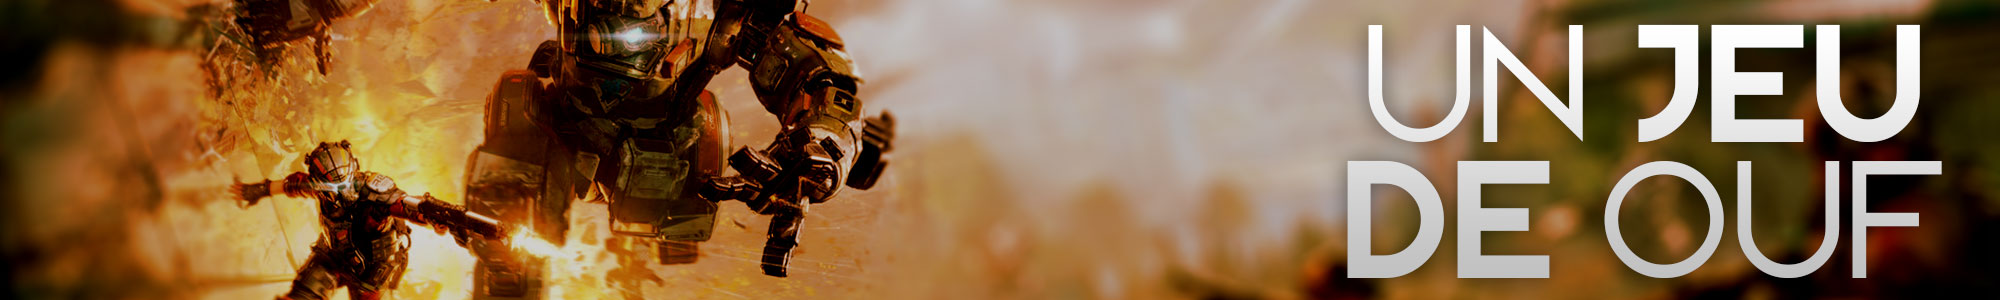
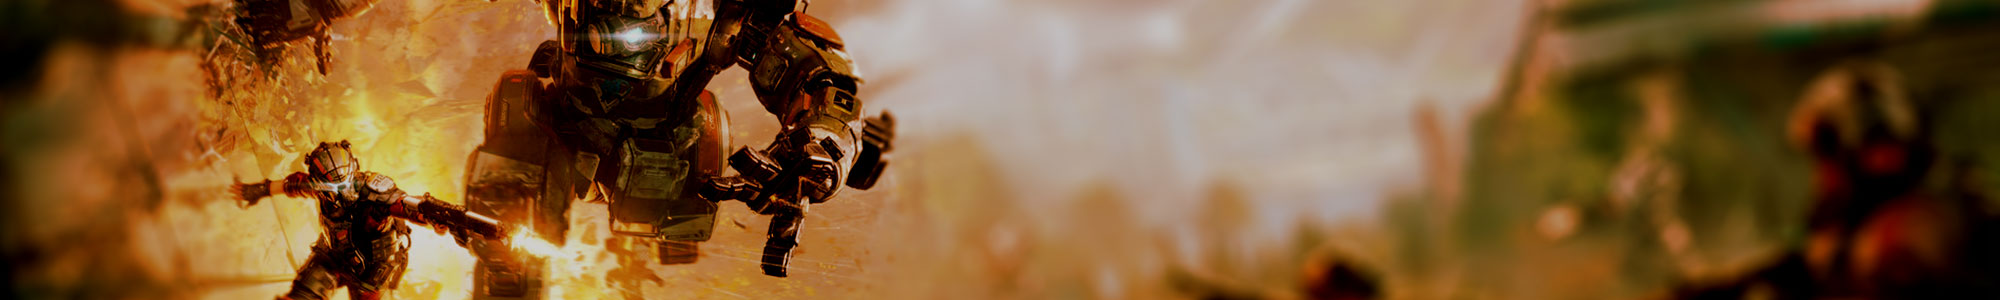
MaJ int

Changed region(s): [[0.651, 0.06, 0.992, 0.96]]

diff --git a/css/main.css b/css/main.css
@@ -1,0 +1,91 @@
+/* ### GENERAL ### */
+
+* {
+  margin: 0;
+  padding: 0;
+}
+
+html {
+  font-family: 'Open Sans', sans-serif;
+  background:url(../img/bg.png);
+  height: 100%;
+}
+
+h1, h2, h3, h4, h5,h6 {
+  font-family: 'Signika', sans-serif;
+}
+
+a {
+  text-decoration: none;
+  color:inherit;
+}
+
+/* ### ANIMATIONS ### */
+
+@keyframes navbtn {
+    0% {
+        color:inherit;
+    }
+    100% {
+        color:#f26c4f;
+    }
+}
+
+/* ### HEADER ### */
+
+#banner {
+  width: 100%;
+    height: 200px;
+    position: relative;
+    z-index:0;
+}
+
+#banner img {
+    width: 100%;
+    height: 100%;
+    object-fit: cover;
+}
+
+#logo {
+    position: absolute;
+    width: 30%;
+    max-width:225px;
+    min-width: 185px;
+    z-index: 1;
+    right:50px;
+    top:0;
+}
+
+#logo img {
+    width: 100%;
+    object-fit: cover;
+    z-index:2; 
+}
+
+#navbar {
+  width: 100%;
+  height: 60px;
+  background:url(../img/texturenav.png), linear-gradient(180deg,#FFF,#CCC);
+    z-index:1; 
+    box-shadow: 0 0 15px #000;
+}
+
+#navbar ul li {
+  text-align: center;
+  display: inline-block;
+  line-height: 60px;
+  width:18%;
+}
+
+#navbar ul li a {
+  font-family: 'Signika', sans-serif;
+  font-size: 1.5rem;
+  font-weight: bold;
+  text-transform: uppercase;
+}
+
+#navbar ul li a:hover {
+  color:#f26c4f;
+    animation-name: navbtn;
+    animation-duration: 0.5s;
+}

diff --git a/inc/header.php b/inc/header.php
@@ -1,0 +1,52 @@
+<!DOCTYPE html>
+<html lang="fr">
+<head>
+    <meta charset="UTF-8">
+    <title>SiteCompPartage</title>
+
+    <!-- ### LINKS ### -->
+
+    <link href="https://fonts.googleapis.com/css?family=Open+Sans|Signika" rel="stylesheet">
+    <link rel="stylesheet" href="../css/normalize.css">
+    <link rel="stylesheet" href="../css/main.css">
+
+    <!-- ### LINKS : END ### -->
+
+</head>
+<body>
+
+<header>
+
+    <!-- ### BANNER + LOGO ### -->
+    
+    <div id="logo">
+        <img src="../img/logo.png" alt="SUPERLOGO">
+    </div>
+
+    <div id="banner">
+        <img src="../img/banner.jpg" alt="Bannière">
+    </div>
+
+    <!-- ### NAVBAR ### -->
+
+    <nav id="navbar">
+        <ul>
+            <li>
+              <a href="#">Le jeu</a>
+            </li>
+            <li>
+              <a href="#">Médias</a>
+            </li>
+            <li>
+              <a href="#">Le staff</a>
+            </li>
+            <li>
+              <a href="#">Forum</a>
+            </li>
+            <li>
+              <a href="#">Assistance</a>
+            </li>
+        </ul>
+    </nav>
+
+</header>
